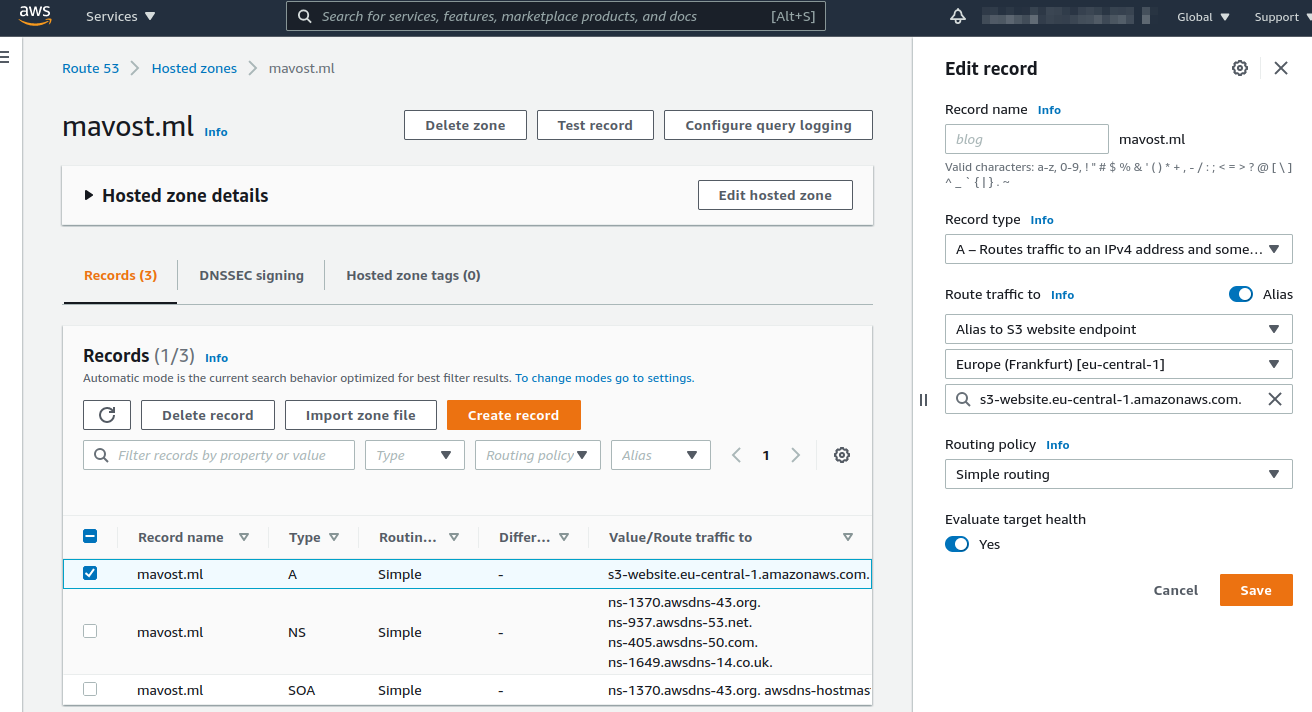
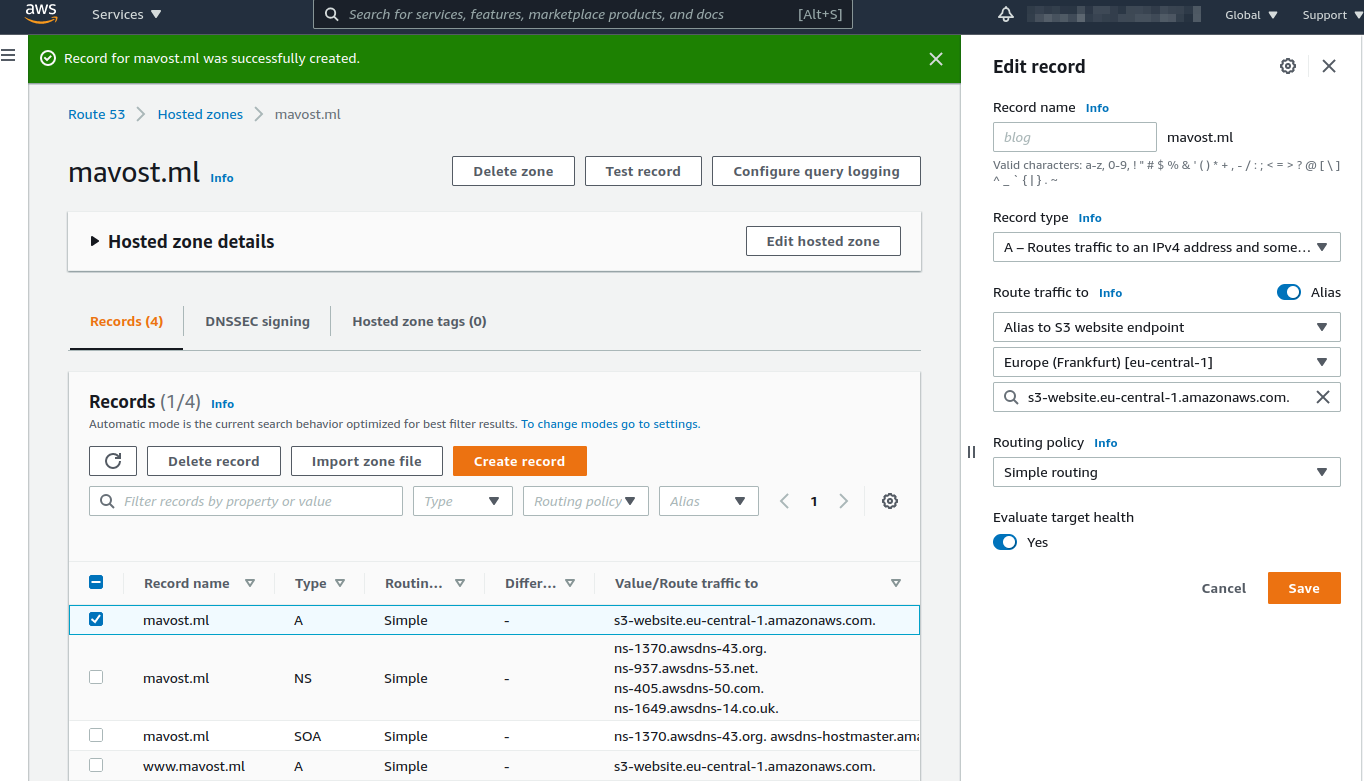
redirect

diff --git a/aws.md b/aws.md
@@ -6,7 +6,7 @@
 
 Sequence:
 
-1. setting up *S3 bucket* with *bucketname*, permissions and inserting content
+1. setting up *S3 bucket* with *bucketname* (e.g. *mavost.ml*), access permissions and inserting content
     - unblock **all public access** by unticking box and confirming decision
     - add access policy with customized *bucketname*
       ```
@@ -29,20 +29,27 @@ Sequence:
       ```
 
     - initial upload of files, e.g. from your own repository (Add Files / Folders)
+    - added a second bucket called *www.bucketname* and repeated above first two steps but instead 
+    of uploading the same hosted content again I added a redirect  
+      ![alt text][img01]
 
 2. setting up *Route 53* by adding a hosted zone
+    - add new hosted zone (not included in AWS free tier!) for both bucket destinations  
+      domain *bucketname* &rightarrow; s3-website.eu-central-1.amazonaws.com S3 bucket  
+      subdomain *www.bucketname* &rightarrow; s3-website.eu-central-1.amazonaws.com S3 bucket
     - screenshot  
-      ![alt text][img01]
+      ![alt text][img02]
     - copy AWS Route 53 DNS server names for use in step 3
 
 3. add server names in Freenom Domain administration
     - screenshot  
-      ![alt text][img02]
+      ![alt text][img03]
 
 4. setting up AWS CodePipeline (one pipeline covered by FreeTier)
     - screenshot  
-      ![alt text][img03]
+      ![alt text][img04]
 
-[img01]:  ./Pictures/2021-09-01_AWS_Route53_HostedZoneS3.png "Setting up Route53 hosted zone for website S3 bucket"
-[img02]:  ./Pictures/2021-09-01_freenom_DNS.png "Entering AWS Route 53 DNS servers to Freenom Domain Settings"
-[img03]:  ./Pictures/2021-09-01_AWS_CodePipeline_GitHub-S3.png "Setup for AWS CodePipeline"
+[img01]:  ./Pictures/2021-09-01_AWS_S3_subdomain_redirect.png "Adjusting redirect of one subdomain to another"
+[img02]:  ./Pictures/2021-09-01_AWS_Route53_HostedZoneS3.png "Setting up Route53 hosted zone for website S3 bucket"
+[img03]:  ./Pictures/2021-09-01_freenom_DNS.png "Entering AWS Route 53 DNS servers to Freenom Domain Settings"
+[img04]:  ./Pictures/2021-09-01_AWS_CodePipeline_GitHub-S3.png "Setup for AWS CodePipeline"
